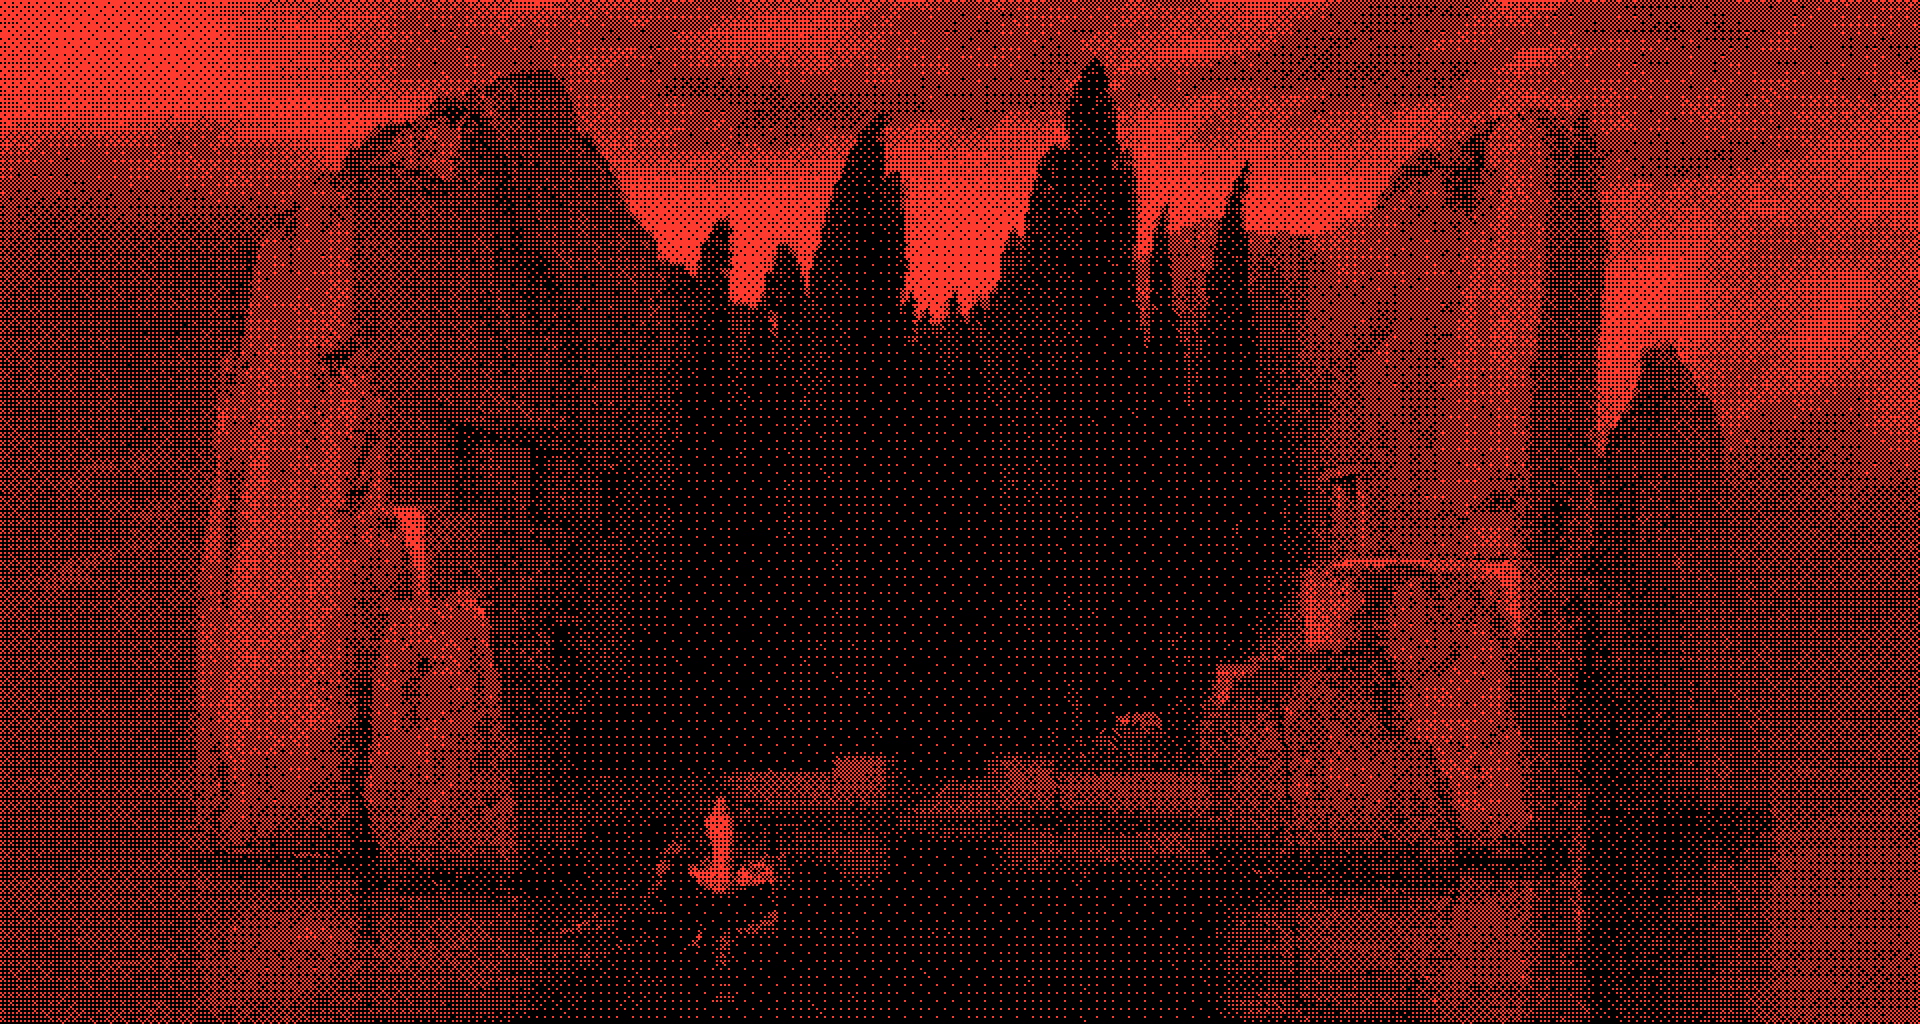
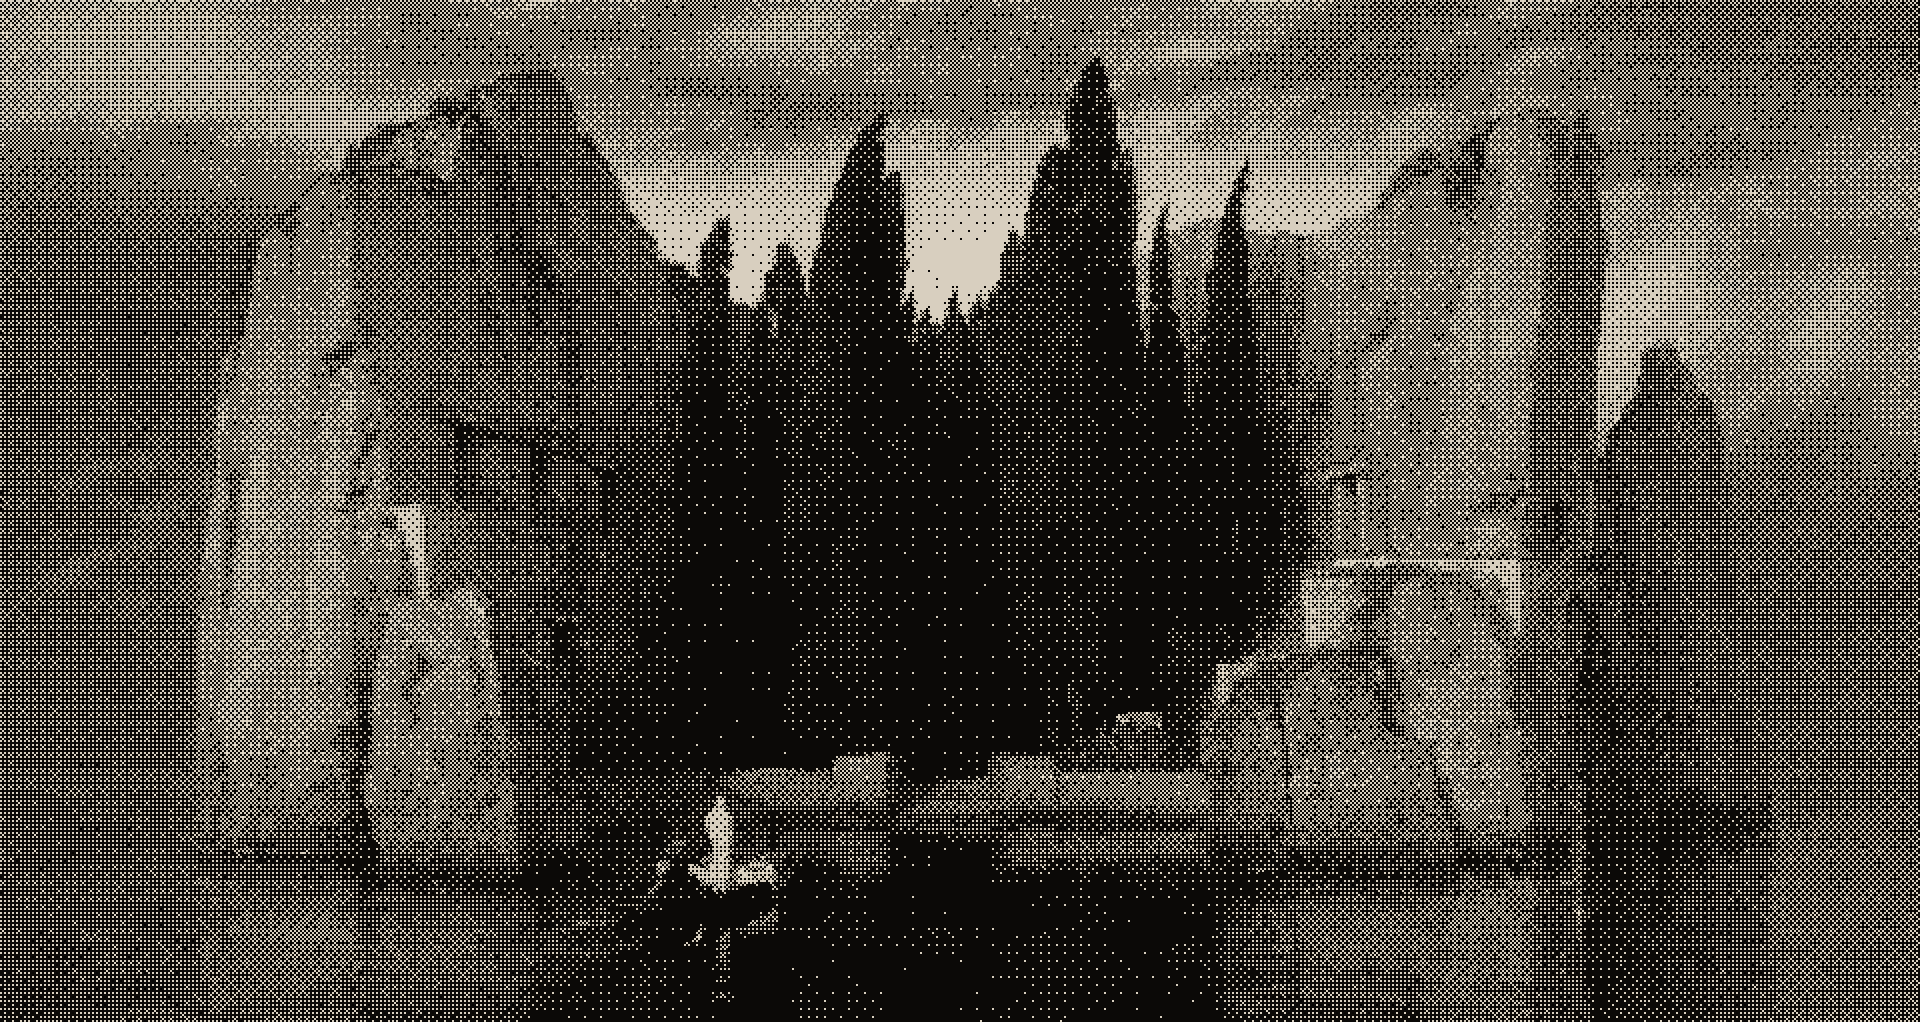
Complete hero: Isle of the Dead in Böcklin's own colours
Replaces the red/blue/black recolour with the original painting, slightly darkened and
warmed with a soft vignette. The hover lens is warm bone dots on black, and the isle's
dissolve palette loses its red glow.

diff --git a/src/content/cycle.ts b/src/content/cycle.ts
@@ -32,7 +32,7 @@ export const stages: Stage[] = [
   {
     id: 'isle', title: { en: 'Isle of the Dead', es: 'La isla de los muertos' }, artist: 'Arnold Böcklin', year: 1883,
     img: '/art/isle-dusk', jpgOnly: true, src: { w: 1920, h: 1023 }, focus: { x: 0.5, y: 0.5 }, textSide: 'left',
-    palette: { accent: '#e9e1d3', dotHi: '#9fb0c4', dotLo: '#0b0907', glow: '#ff5a46', smoke: '#05060f' }, enter: 'rise',
+    palette: { accent: '#e9e1d3', dotHi: '#d8cfbf', dotLo: '#0b0907', glow: '#f2d6a6', smoke: '#07080a' }, enter: 'rise',
   },
   {
     id: 'savage', title: { en: 'The Savage State', es: 'El estado salvaje' }, artist: 'Thomas Cole', year: 1836,
